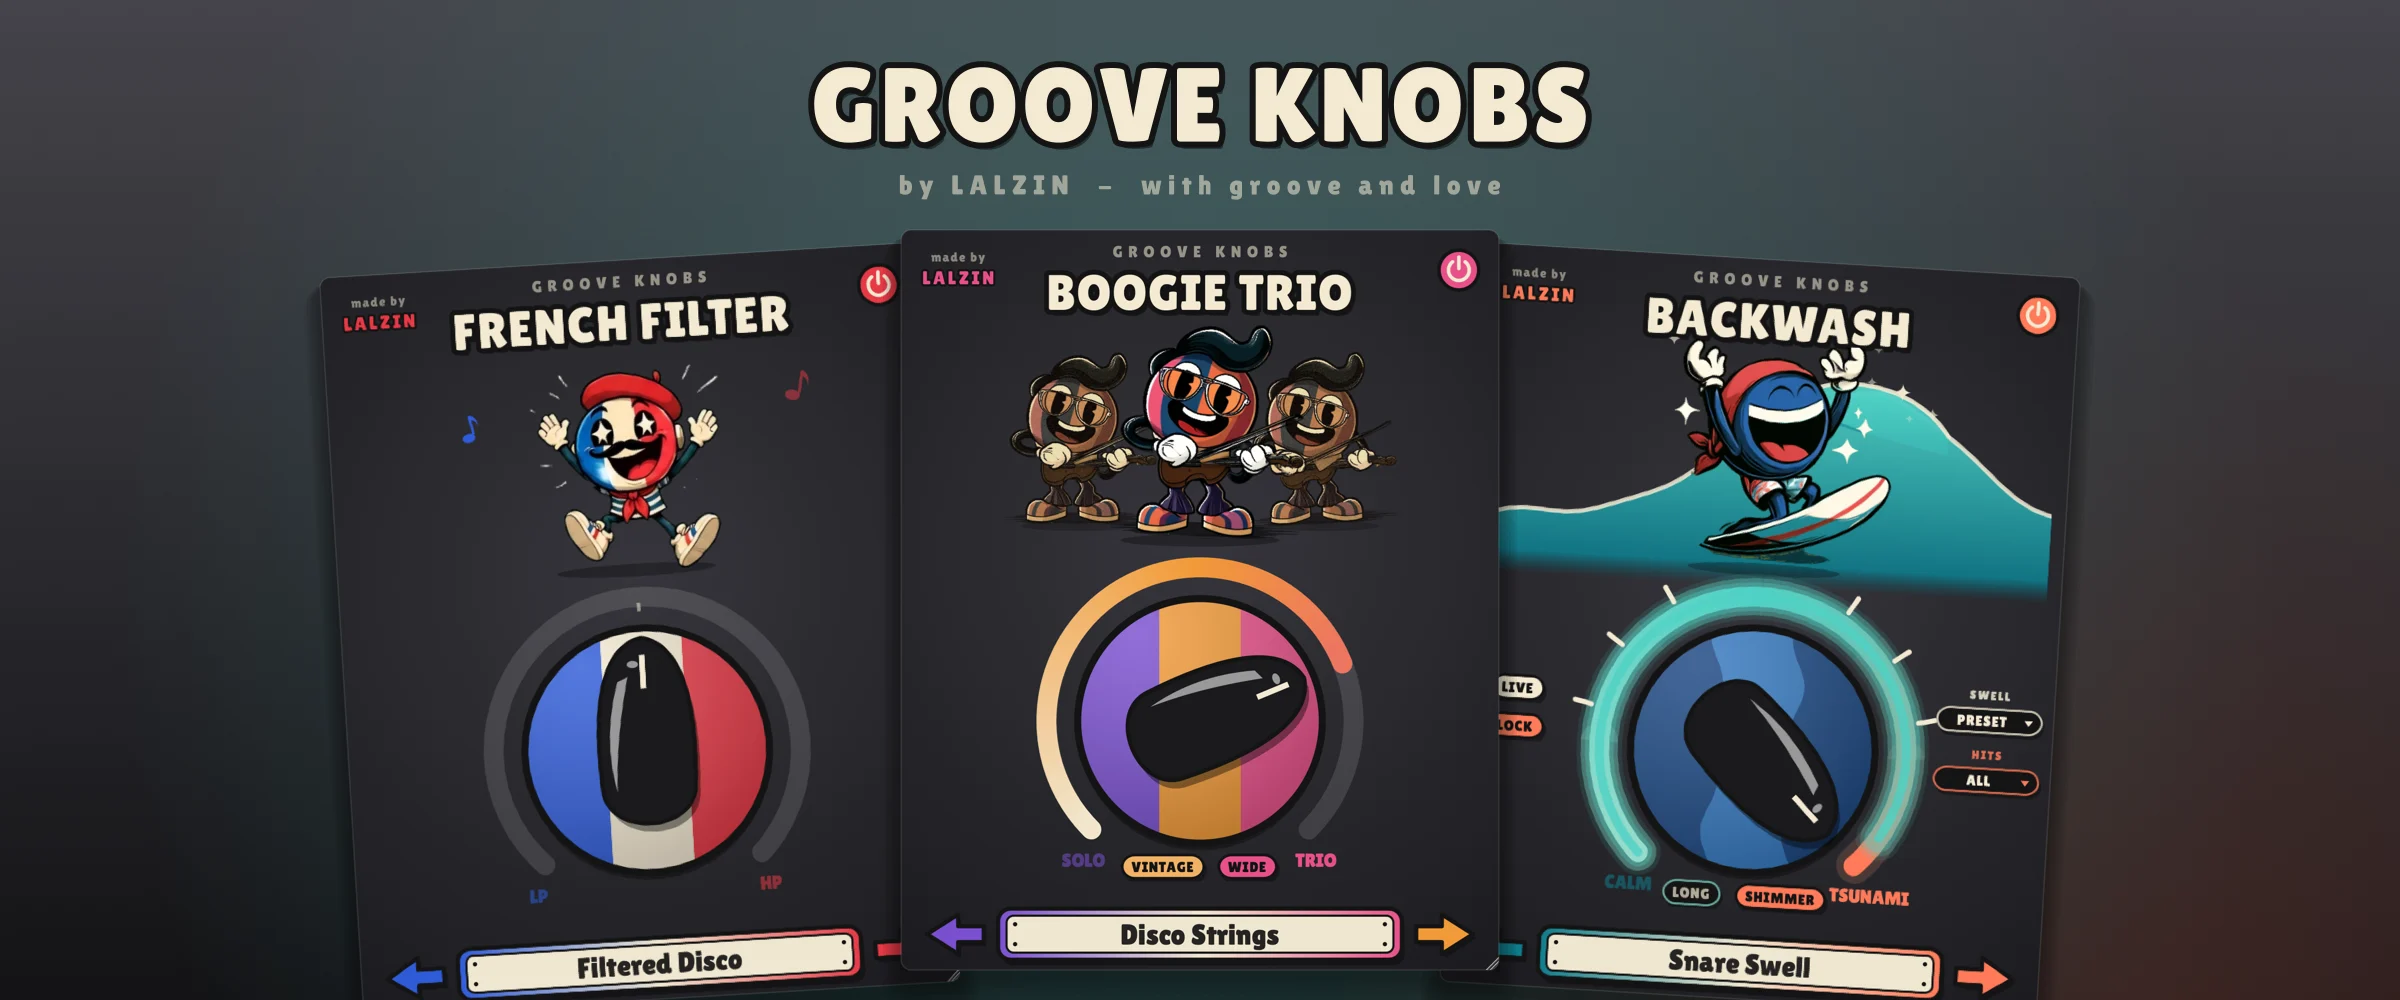
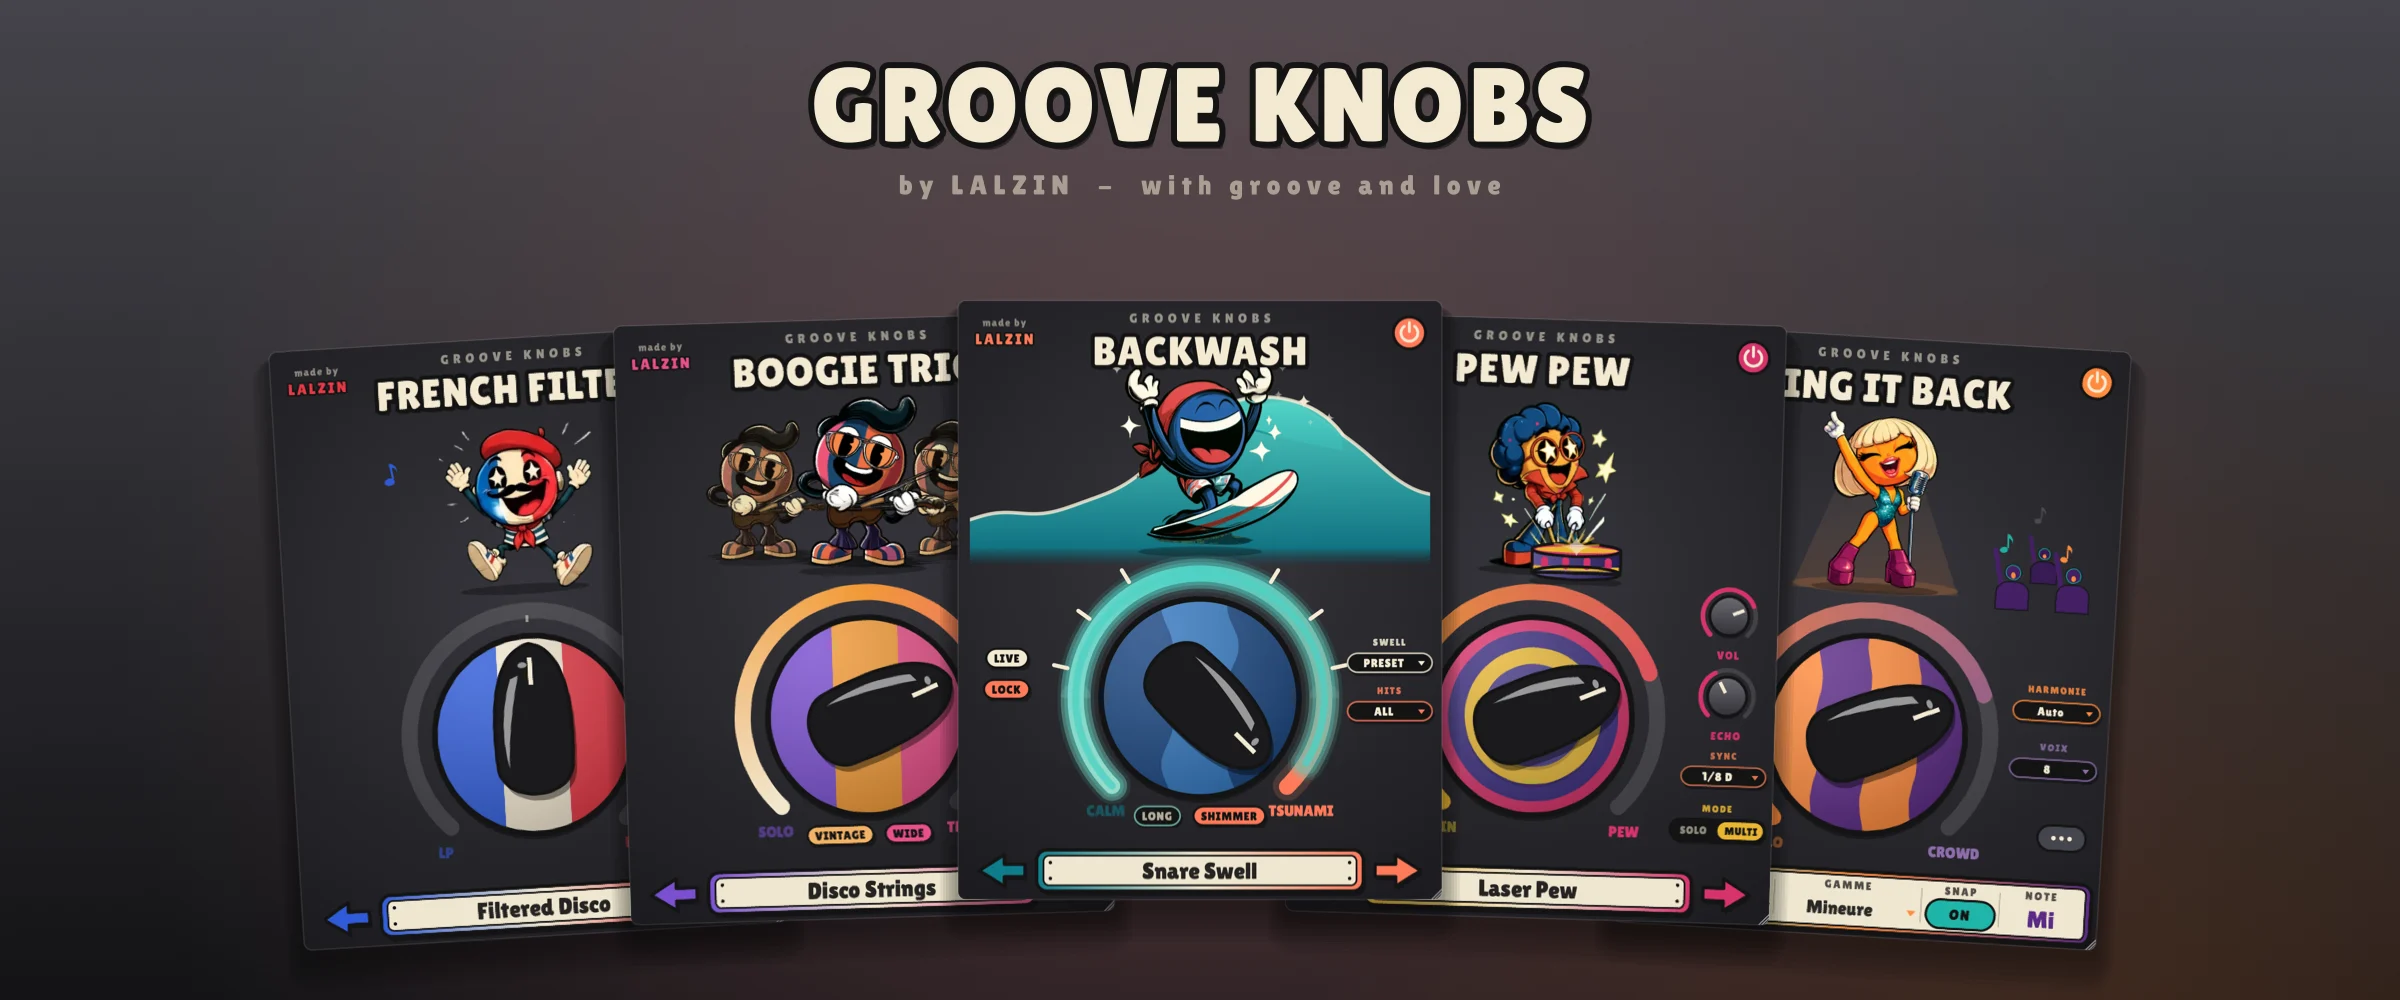
Web assets for Pew Pew and Sing It Back, suite visuals with five plugins; release notes v0.1.1

diff --git a/tests/common/WebAssets.h b/tests/common/WebAssets.h
@@ -5,7 +5,7 @@
 //   <out>/<slug>/ui-hero.png (2x), ui-hero@3x.png, ui-<state>.png (2x)
 //   <out>/<slug>/mascot.png, poses/<n>.png (transparent), poses-sheet.png
 //   <out>/<slug>/og.png (1200x630), card-square.png (1080x1080), icon-512.png
-//   <out>/groove-knobs-og.png, groove-knobs-banner.png (when all three exist)
+//   <out>/groove-knobs-og.png, groove-knobs-banner.png (when all of them exist)
 
 #include <groove_core/groove_core.h>
 #include <iostream>
@@ -267,7 +267,7 @@ inline void writeSuite (const juce::File& outRoot, const std::vector<std::pair<j
     for (const auto& u : uis)
         if (! u.isValid())
         {
-            std::cout << "suite visuals skipped: render the three plugins first\n";
+            std::cout << "suite visuals skipped: render every plugin first\n";
             return;
         }
     const auto cream = pal.text, ink = pal.outline;
@@ -281,15 +281,21 @@ inline void writeSuite (const juce::File& outRoot, const std::vector<std::pair<j
         g.setColour (cream.withAlpha (0.55f));
         g.fillPath (textPath ("by LALZIN  -  with groove and love", titleH * 0.26f, b.getCentreX(), titleH * 1.62f, 0.2f, true));
         cartoonText (g, textPath ("GROOVE KNOBS", titleH, b.getCentreX(), titleH * 1.18f, 0.03f, true), cream, ink, titleH * 0.1f);
-        const float ww = windows.getWidth() / 3.0f;
-        const float rot[] { -0.06f, 0.0f, 0.06f };
-        const int order[] { 0, 2, 1 }; // middle one on top
+        // the windows side by side, fanned out, the middle one on top
+        const int n = (int) uis.size();
+        const float ww = windows.getWidth() / (float) n;
+        std::vector<int> order;
+        for (int k = 0; k < n; ++k)
+            order.push_back (k);
+        const float mid = 0.5f * (float) (n - 1);
+        std::stable_sort (order.begin(), order.end(), [&] (int x, int y) { return std::abs ((float) x - mid) > std::abs ((float) y - mid); });
         for (int k : order)
         {
-            const auto area = juce::Rectangle<float> (windows.getX() + ww * (float) k, windows.getY() + (k == 1 ? 0.0f : windows.getHeight() * 0.04f), ww,
+            const float side = mid > 0.0f ? ((float) k - mid) / mid : 0.0f; // -1 .. 1
+            const auto area = juce::Rectangle<float> (windows.getX() + ww * (float) k, windows.getY() + windows.getHeight() * 0.05f * std::abs (side), ww,
                                                       windows.getHeight())
-                                  .expanded (ww * 0.08f, 0.0f);
-            drawWindow (g, uis[(size_t) k], area, rot[k]);
+                                  .expanded (ww * (n > 3 ? 0.22f : 0.08f), 0.0f);
+            drawWindow (g, uis[(size_t) k], area, 0.06f * side);
         }
         writePng (img, outRoot.getChildFile (file));
     };

diff --git a/tests/sing_it_back/SibScreenshots.cpp b/tests/sing_it_back/SibScreenshots.cpp
@@ -6,6 +6,7 @@
 
 #include "SingItBackEditor.h"
 #include <iostream>
+#include "WebAssets.h"
 
 namespace
 {
@@ -50,11 +51,54 @@ juce::Image sheetOf (const std::vector<Row>& rows)
         }
     return sheet;
 }
+
+juce::File repoRoot()
+{
+    for (auto d = juce::File::getCurrentWorkingDirectory(); d.exists() && ! d.isRoot(); d = d.getParentDirectory())
+        if (d.getChildFile ("plugins").isDirectory() && d.getChildFile ("modules/groove_core").isDirectory())
+            return d;
+    return juce::File::getCurrentWorkingDirectory();
+}
+
+// --web: visuals for lalzin.com (web-assets/sing-it-back) and, last, the
+// suite visuals with the five plugins
+int runWeb (const juce::File& out)
+{
+    sib::SingItBackProcessor proc;
+    setParam (proc.getKeyParameter(), 9.0f);   // A minor
+    setParam (proc.getScaleParameter(), 1.0f);
+    auto at = [&] (float crowd, float scale, int syllable, int voices = 1)
+    {
+        setParam (proc.getCrowdParameter(), crowd);
+        setParam (proc.getVoicesParameter(), (float) voices);
+        return shoot (proc, scale, true, syllable);
+    };
+    std::vector<gkweb::Shot> shots { { "hero", at (0.75f, 3.0f, 2) }, { "25", at (0.25f, 2.0f, 1) }, { "100", at (1.0f, 2.0f, 3, 2) } };
+    setParam (proc.getStyleParameter(), 1.0f); // Gospel
+    shots.push_back ({ "gospel", at (0.75f, 2.0f, 4) });
+    gkweb::PluginInfo info;
+    info.slug = "sing-it-back";
+    info.name = "Sing It Back";
+    info.taglineFr = juce::String::fromUTF8 ("Une foule qui chante avec ta voix, en un knob");
+    info.taglineEn = "A crowd singing along with your voice, in one knob";
+    info.palette = sib::SingItBackEditor::makePalette();
+    info.assetsDir = repoRoot().getChildFile ("plugins/sing_it_back/Assets");
+    info.framePrefix = "sugar_";
+    info.heroFrame = std::atoi (std::getenv ("GK_HERO") != nullptr ? std::getenv ("GK_HERO") : "8");
+    for (int i = 0; i < 33; ++i)
+        info.poses.push_back (i);
+    gkweb::writePlugin (info, shots, out);
+
+    gkweb::writeSuite (out, { { "french-filter", "" }, { "boogie-trio", "" }, { "backwash", "" }, { "pew-pew", "" }, { "sing-it-back", "" } }, info.palette);
+    return 0;
+}
 } // namespace
 
 int main (int argc, char** argv)
 {
     juce::ScopedJuceInitialiser_GUI juceInit;
+    if (argc > 1 && juce::String (argv[1]) == "--web")
+        return runWeb (juce::File::getCurrentWorkingDirectory().getChildFile (argc > 2 ? argv[2] : "web-assets"));
     const auto outDir = juce::File::getCurrentWorkingDirectory().getChildFile (argc > 1 ? argv[1] : "screenshots/sing_it_back");
     outDir.createDirectory();
     sib::SingItBackProcessor proc;

diff --git a/tests/pew_pew/PpScreenshots.cpp b/tests/pew_pew/PpScreenshots.cpp
@@ -6,6 +6,7 @@
 
 #include "PewPewEditor.h"
 #include <iostream>
+#include "WebAssets.h"
 
 namespace
 {
@@ -48,11 +49,49 @@ juce::Image sheetOf (const std::vector<std::vector<std::pair<juce::String, juce:
         }
     return sheet;
 }
+
+juce::File repoRoot()
+{
+    for (auto d = juce::File::getCurrentWorkingDirectory(); d.exists() && ! d.isRoot(); d = d.getParentDirectory())
+        if (d.getChildFile ("plugins").isDirectory() && d.getChildFile ("modules/groove_core").isDirectory())
+            return d;
+    return juce::File::getCurrentWorkingDirectory();
+}
+
+// --web: visuals for lalzin.com (web-assets/pew-pew)
+int runWeb (const juce::File& out)
+{
+    pp::PewPewProcessor proc;
+    setParam (proc.getPresetParameter(), 0.0f); // Laser Pew
+    setParam (proc.getRoomParameter(), 0.5f);
+    setParam (proc.getEchoParameter(), 0.4f);
+    auto at = [&] (float amount, float scale, float ago)
+    {
+        setParam (proc.getAmountParameter(), amount);
+        return shoot (proc, scale, ago);
+    };
+    std::vector<gkweb::Shot> shots { { "hero", at (0.75f, 3.0f, 0.04f) }, { "25", at (0.25f, 2.0f, 0.3f) }, { "100", at (1.0f, 2.0f, 0.04f) } };
+    gkweb::PluginInfo info;
+    info.slug = "pew-pew";
+    info.name = "Pew Pew";
+    info.taglineFr = juce::String::fromUTF8 ("Le pew disco, en instrument \xc3\xa0 un knob");
+    info.taglineEn = "The disco pew, as a one-knob instrument";
+    info.palette = pp::PewPewEditor::makePalette();
+    info.assetsDir = repoRoot().getChildFile ("plugins/pew_pew/Assets");
+    info.framePrefix = "tomi_";
+    info.heroFrame = std::atoi (std::getenv ("GK_HERO") != nullptr ? std::getenv ("GK_HERO") : "26");
+    for (int i = 0; i < 35; ++i)
+        info.poses.push_back (i);
+    gkweb::writePlugin (info, shots, out);
+    return 0;
+}
 } // namespace
 
 int main (int argc, char** argv)
 {
     juce::ScopedJuceInitialiser_GUI juceInit;
+    if (argc > 1 && juce::String (argv[1]) == "--web")
+        return runWeb (juce::File::getCurrentWorkingDirectory().getChildFile (argc > 2 ? argv[2] : "web-assets"));
     const auto outDir = juce::File::getCurrentWorkingDirectory().getChildFile (argc > 1 ? argv[1] : "screenshots/pew_pew");
     outDir.createDirectory();
 

diff --git a/web-assets/PROMPT-site-lalzin.md b/web-assets/PROMPT-site-lalzin.md
@@ -16,8 +16,8 @@ fonts Bricolage Grotesque (titres) + Hanken Grotesk (texte). Respecte l'existant
 (composants, conventions, i18n, style), ne casse rien.
 
 LALZIN publie **Groove Knobs**, une suite de plugins audio gratuits à un seul knob :
-**French Filter**, **Boogie Trio**, **Backwash** (VST3 / AU / standalone, macOS universel +
-Windows 64 bits). Il faut une section « Plugins » qui donne envie, et un téléchargement
+**French Filter**, **Boogie Trio**, **Backwash**, **Pew Pew** (un instrument MIDI) et
+**Sing It Back** (effet pour voix) — VST3 / AU / standalone, macOS universel + Windows 64 bits. Il faut une section « Plugins » qui donne envie, et un téléchargement
 contre une adresse email, avec un don libre via PayPal.
 
 ## Ressources fournies
@@ -28,7 +28,7 @@ contre une adresse email, avec un don libre via PayPal.
    rsync -a --include='*/' --include='*.webp' --exclude='*' ../groove-knobs/web-assets/ public/images/plugins/
    cp ../groove-knobs/web-assets/plugins.json lib/plugins.json
    ```
-   Par plugin (`public/images/plugins/<slug>/`) : `ui-hero.webp` (840×1040, fenêtre du plugin),
+   Par plugin (`public/images/plugins/<slug>/`, slugs `french-filter`, `boogie-trio`, `backwash`, `pew-pew`, `sing-it-back`) : `ui-hero.webp` (840×1040, fenêtre du plugin),
    `ui-hero@3x.webp` (1260×1560), `ui-<état>.webp` (autres états), `mascot.webp` (détouré),
    `poses/<n>.webp` (toutes les poses détourées), `og.webp` (1200×630), `card-square.webp`
    (1080×1080), `icon-512.webp`. Suite : `groove-knobs-og.webp`, `groove-knobs-banner.webp` (2400×1000).
@@ -39,7 +39,7 @@ contre une adresse email, avec un don libre via PayPal.
 
 ## Parcours (dans cet ordre)
 
-1. **`/plugins`** — page de la suite : bannière `groove-knobs-banner`, accroche, 3 cartes
+1. **`/plugins`** — page de la suite : bannière `groove-knobs-banner`, accroche, 5 cartes
    (fenêtre du plugin + mascotte qui dépasse de la carte, couleurs du plugin, accroche,
    bouton « Télécharger gratuitement »). Ajoute « Plugins » dans la navigation et une
    section teaser sur la home. Ajoute aussi un lien dans `/links`.
@@ -47,12 +47,12 @@ contre une adresse email, avec un don libre via PayPal.
    Framer Motion, flottement / rebond au survol ; respecte `prefers-reduced-motion`),
    description, points forts, liste des presets, galerie des états (`ui-*.webp`),
    configuration requise, formats, bouton de téléchargement. `generateStaticParams`, metadata
-   par page avec `og.webp`, JSON-LD `SoftwareApplication` (`offers.price = 0`,
+   par page avec `og.webp`, JSON-LD `SoftwareApplication` (Pew Pew : catégorie instrument, champ `type` de `plugins.json`) (`offers.price = 0`,
    `operatingSystem`, `applicationCategory: "MultimediaApplication"`).
 3. **Formulaire de téléchargement** (sur la page produit, en modal ou en section ancrée) :
    - email (obligatoire), choix de l'OS (pré-sélectionné d'après le user-agent, modifiable),
      et possibilité de cocher les **autres plugins** (une seule demande, un seul email pour
-     les trois) ;
+     tous) ;
    - case **newsletter décochée par défaut** et séparée (« Je veux recevoir les nouveaux
      plugins et les sorties de LALZIN »), lien vers la politique de confidentialité ;
    - anti-spam : Cloudflare Turnstile + champ honeypot caché + limite de 5 demandes / heure
@@ -77,16 +77,18 @@ contre une adresse email, avec un don libre via PayPal.
    - si valide : incrémente le compteur, puis redirige (302) vers une **URL présignée de
      15 minutes** du fichier stocké en privé ; sinon page « Lien expiré » avec le
      formulaire pour en recevoir un nouveau.
-7. **`/plugins/installation`** — guide FR/EN : macOS (ouvrir le `.pkg` ; si macOS bloque :
-   Réglages Système → Confidentialité et sécurité → « Ouvrir quand même »), Windows
+7. **`/plugins/installation`** — guide FR/EN : macOS (ouvrir le `.pkg` : signé et notarisé par Apple, il s'installe sans avertissement), Windows
    (SmartScreen : « Informations complémentaires » → « Exécuter quand même »), puis dans
    Ableton : Réglages → Plug-Ins → Rescan, les plugins sont dans VST3 / Audio Units → LALZIN.
-   Mentionne que Backwash démarre en mode LIVE (zéro latence) et écoute la première mesure.
+   Mentionne que Backwash démarre en mode LIVE (zéro latence) et écoute la première mesure,
+   que **Pew Pew** est un instrument (piste MIDI, dans les instruments) et que **Sing It Back**
+   se met sur une piste de voix seule (stem / a cappella, pas un mix complet) : régler d'abord
+   le ton et la gamme du morceau, puis monter CROWD.
 
 ## Stockage et données
 
 - **Fichiers d'installation** dans un bucket **Cloudflare R2 privé** (`groove-knobs`), clés
-  `v0.1.0/FrenchFilter-0.1.0-macOS.pkg`, etc. URLs présignées via `@aws-sdk/client-s3` +
+  `v0.1.0/FrenchFilter-0.1.0-macOS.pkg`, etc. (les cinq `.pkg` macOS de `groove-knobs/dist/`, signés et notarisés, et les cinq `.exe` Windows de la release GitHub v0.1.1) URLs présignées via `@aws-sdk/client-s3` +
   `@aws-sdk/s3-request-presigner` (endpoint R2). Rien dans `public/` (35 Mo par fichier).
 - **Supabase**, nouvelle migration `supabase/plugins.sql` :
   - `plugin_requests` (id uuid, email citext, plugins text[], os, lang, newsletter bool,

diff --git a/.github/release-notes.md b/.github/release-notes.md
@@ -6,16 +6,23 @@
 | **French Filter** | le filtre French Touch, en un knob — *the French Touch filter* |
 | **Boogie Trio** | le chorus triple des string machines 70s — *a 70s string-machine triple chorus* |
 | **Backwash** | la reverb inversée calée sur le tempo — *tempo-synced reverse reverb* |
+| **Pew Pew** *(nouveau, instrument)* | le pew disco, en instrument MIDI — *the disco pew, as a MIDI instrument* |
+| **Sing It Back** *(nouveau)* | une foule qui chante avec ta voix — *a crowd singing along with your voice* |
+
+### Nouveau dans cette version / *What's new*
+- **Pew Pew** et **Sing It Back** rejoignent la suite (Windows ci-dessous, macOS sur lalzin.com).
+- Installateurs Windows corrigés : chaque plugin a désormais son propre identifiant d'installation (avant, installer Boogie Trio ou Backwash remplaçait l'entrée de French Filter dans « Applications installées »). Si tu as installé plusieurs plugins de la v0.1.0, réinstalle-les.
+- *Pew Pew and Sing It Back join the suite. Windows installers fixed: each plugin now has its own install ID (installing a second plugin no longer replaced the first one's uninstall entry) — reinstall if you had several from v0.1.0.*
 
 ### Windows (10 / 11, 64 bits)
 Télécharge le `…-Windows-Setup.exe` du plugin ci-dessous et lance-le : VST3 dans `C:\Program Files\Common Files\VST3` + application autonome.
 Si Windows affiche « Windows a protégé votre ordinateur » : **Informations complémentaires → Exécuter quand même** (l'installateur n'est pas encore signé pour Windows).
-Puis dans Ableton : Préférences → Plug-Ins → **Rescan**.
+Puis dans Ableton : Préférences → Plug-Ins → **Rescan**. Pew Pew est un **instrument** (piste MIDI) ; Sing It Back se met sur une piste de **voix seule**.
 
-*Download the plugin's `…-Windows-Setup.exe` below and run it. If SmartScreen warns you: **More info → Run anyway**. Then rescan your plug-ins in your DAW.*
+*Download the plugin's `…-Windows-Setup.exe` below and run it. If SmartScreen warns you: **More info → Run anyway**. Then rescan your plug-ins in your DAW. Pew Pew is an instrument (MIDI track); put Sing It Back on a solo vocal track.*
 
 ### macOS
-Les installateurs macOS signés et notarisés arrivent bientôt sur [lalzin.com](https://www.lalzin.com/links).
-*Signed and notarised macOS installers coming soon on lalzin.com.*
+Installateurs macOS **signés et notarisés par Apple** (s'installent sans avertissement) sur [lalzin.com](https://www.lalzin.com/links).
+*Apple-signed and notarised macOS installers on lalzin.com.*
 
 by LALZIN — with groove and love ♥

diff --git a/DECISIONS.md b/DECISIONS.md
@@ -407,3 +407,7 @@ Une ligne par décision : **contexte** — choix — raison.
 - Les certificats « Apple Development » et « Apple Distribution » téléchargés d'abord ne servent pas ici (Gatekeeper / notarisation hors App Store) : ignorés par le script.
 - Reste : **Developer ID Installer** (signature des .pkg) et le profil de notarisation (`notarytool store-credentials`, lancé par Alan).
 - **Fait** : Developer ID Installer importé ; profil de notarisation d'Alan `groovy-knobs` (défaut du script). `make_installer_mac.sh` notarise d'abord les trois bundles (VST3, AU, app) et agrafe leur ticket — ils passent Gatekeeper même copiés à la main —, puis signe, notarise et agrafe le .pkg. Les cinq paquets 0.1.0 : Apple « Accepted », `spctl` « accepted — source=Notarized Developer ID, origin=Developer ID Installer: Alan Marzin (J7424X5CN3) ».
+
+## Site et release v0.1.1 (2026-10-20)
+- **Visuels web** de Pew Pew et Sing It Back (`pp_screenshots --web`, `sib_screenshots --web`) : mêmes fichiers que les trois premiers (fenêtre 2x / 3x, états, mascotte détourée et toutes ses poses, og 1200×630, carte 1080×1080, icône 512) ; pose principale Tomi 26 (frappe à pleine énergie), Sugar 8 (doigt levé). Visuels de la suite refaits avec les **cinq** fenêtres en éventail (`writeSuite` accepte n plugins). `plugins.json` : deux fiches de plus (`type` instrument / effet), tailles des `.pkg` notarisés ; prompt du site mis à jour (5 cartes, installation macOS sans avertissement, conseils Pew Pew / Sing It Back).
+- **Tag v0.1.1** : release GitHub avec les cinq installateurs Windows (le workflow les construit tous depuis 18fe3a2, vérifié vert). Les versions des plugins restent 0.1.0 (noms des fichiers) : le tag est celui de la suite.

diff --git a/web-assets/README.md b/web-assets/README.md
@@ -3,11 +3,11 @@
 Générés depuis les vrais plugins (fenêtres rendues hors écran, mascottes des planches) :
 
 ```bash
-for t in ff bt bw; do build/tests/**/${t}_screenshots --web web-assets; done   # bw en dernier (visuels de la suite)
+for t in ff bt bw pp sib; do build/tests/**/${t}_screenshots --web web-assets; done   # sib en dernier (visuels de la suite, 5 fenêtres)
 cd web-assets && find . -name '*.png' ! -name 'poses-sheet.png' -exec sh -c 'cwebp -quiet -q 86 -alpha_q 100 "$1" -o "${1%.png}.webp"' _ {} \;
 ```
 
-Pose principale de la mascotte : variable `GK_HERO` (FF 13, BT 1, BW 11). `poses-sheet.png` numérote toutes les poses.
+Pose principale de la mascotte : variable `GK_HERO` (FF 13, BT 1, BW 11, PP 26, SIB 8). `poses-sheet.png` numérote toutes les poses.
 
 | Fichier | Taille | Usage |
 |---|---|---|
